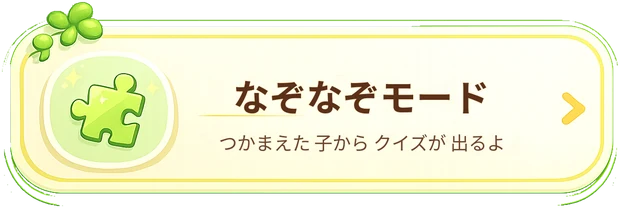
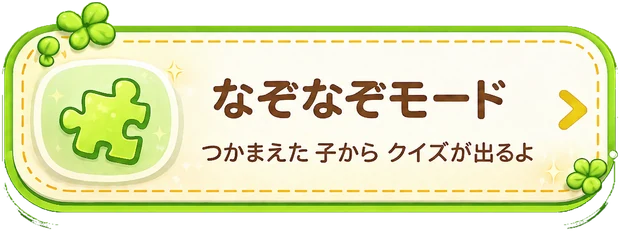
メニューの 5つの ボタンを あたらしい えに さしかえ（v130）
・図鑑を めくる／とうぎじょう／なぞなぞモード／科の ならびかえ／
  おもいでまっぷ の 5まいを、そろった デザインの ものに 入(い)れかえ
・きりぬきは、まえの 設定(せってい)だと「科の ならびかえ」だけ
  中(なか)の クリーム色(いろ)まで けずれて しまった ので、
  ひろがる しきいちを 26→12 に して 5まいとも きれいに した
・えの たてよこ比(ひ)が すこし かわった ので CSS も あわせた
・せの ひくい がめん（たかさ 720px いか）では メニューの すきまを
  つめて、5こ ならんでも はみ出(だ)さない ように した

たしかめた こと
・412×860／360×740／320×640 の 3つで はみ出(だ)し なし
・どの おおきさでも 5つとも ちゃんと ひらく
・⚙設定は これまでどおり 右下(みぎした)

Claude-Session: https://claude.ai/code/session_0117rxThQ1NyrT7KgAK1ereN

diff --git a/css/style.css b/css/style.css
@@ -198,11 +198,11 @@ button { font-family: inherit; cursor: pointer; border: none; color: inherit; }
 .drawer-item > * { display: none; }
 .drawer-item:active { transform: translateY(3px); filter: drop-shadow(0 1px 2px rgba(0,0,0,.34)); }
 .drawer-item[hidden] { display: none; }
-.drawer-item.di-book  { aspect-ratio: 620 / 217; background-image: url("../img/di-book.webp"); }
-.drawer-item.di-arena { aspect-ratio: 620 / 213; background-image: url("../img/di-arena.webp"); }
-.drawer-item.di-quiz  { aspect-ratio: 620 / 208; background-image: url("../img/di-quiz.webp"); }
-.drawer-item.di-sort  { aspect-ratio: 620 / 212; background-image: url("../img/di-sort.webp"); }
-.drawer-item.di-map   { aspect-ratio: 620 / 197; background-image: url("../img/di-map.webp"); }
+.drawer-item.di-book  { aspect-ratio: 620 / 239; background-image: url("../img/di-book.webp"); }
+.drawer-item.di-arena { aspect-ratio: 620 / 233; background-image: url("../img/di-arena.webp"); }
+.drawer-item.di-quiz  { aspect-ratio: 620 / 231; background-image: url("../img/di-quiz.webp"); }
+.drawer-item.di-sort  { aspect-ratio: 620 / 229; background-image: url("../img/di-sort.webp"); }
+.drawer-item.di-map   { aspect-ratio: 620 / 196; background-image: url("../img/di-map.webp"); }
 /* いちばん した：ばーじょん（ひだり）と ⚙設定（みぎ） */
 .drawer-bottom {
   margin-top: auto; display: flex; align-items: flex-end; justify-content: space-between; gap: 10px;
@@ -227,6 +227,10 @@ button { font-family: inherit; cursor: pointer; border: none; color: inherit; }
 @keyframes diIn {
   0% { transform: translateX(36px); opacity: 0; }
   100% { transform: none; opacity: 1; }
+}
+/* せの ひくい がめんでは すきまを つめて、メニューが はみ出(だ)さない ように */
+@media (max-height: 720px) {
+  .drawer { gap: 8px; padding-top: calc(var(--safe-top) + 10px); }
 }
 @media (prefers-reduced-motion: reduce) {
   .drawer { transition: none; }

diff --git a/service-worker.js b/service-worker.js
@@ -1,5 +1,5 @@
 /* むしずかん — サービスワーカー（オフラインでも つかえる／あたらしい ばんに すぐ なる）*/
-const CACHE = "mushizukan-v129";
+const CACHE = "mushizukan-v130";
 /* ちずの タイルは バージョンを 上(あ)げても すてない（ためた ぶんが むだに ならない）*/
 const TILES = "mushizukan-tiles";
 const TILE_HOST = "https://tile.openstreetmap.org/";

diff --git a/js/app.js b/js/app.js
@@ -2,7 +2,7 @@
 (() => {
   "use strict";
 
-  const APP_VERSION = "v129";
+  const APP_VERSION = "v130";
 
   const $ = (s, e = document) => e.querySelector(s);
   const $$ = (s, e = document) => [...e.querySelectorAll(s)];
